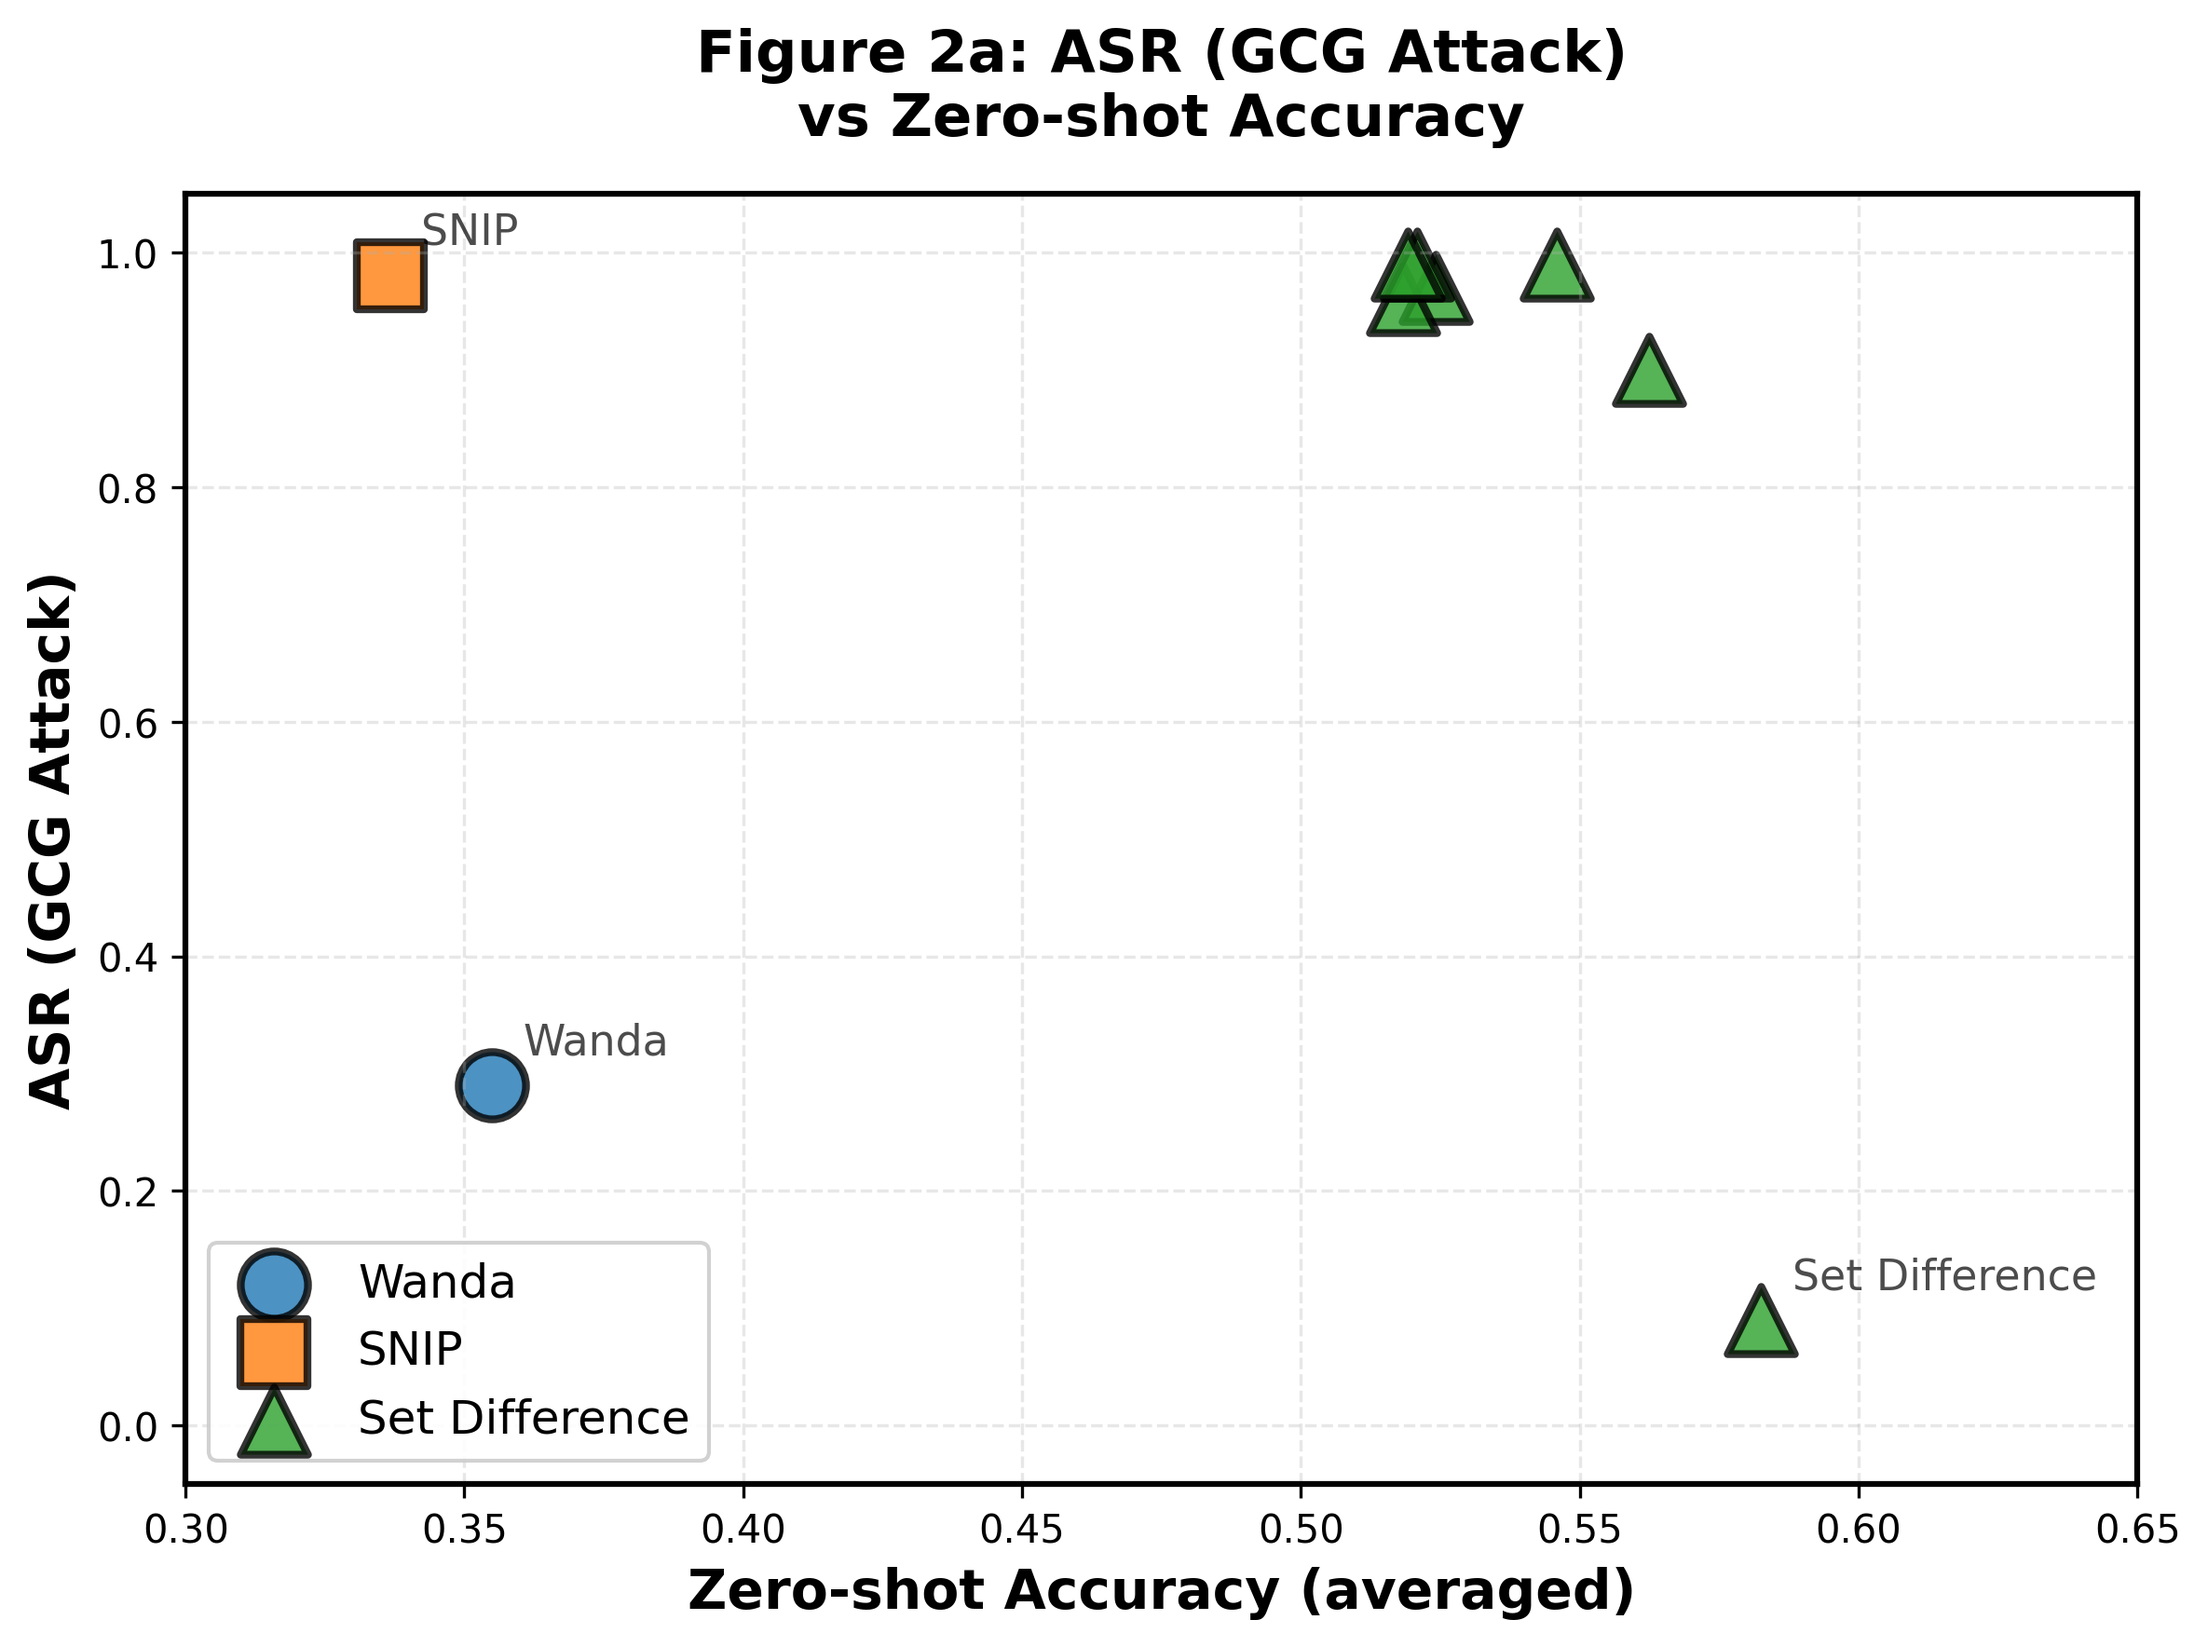
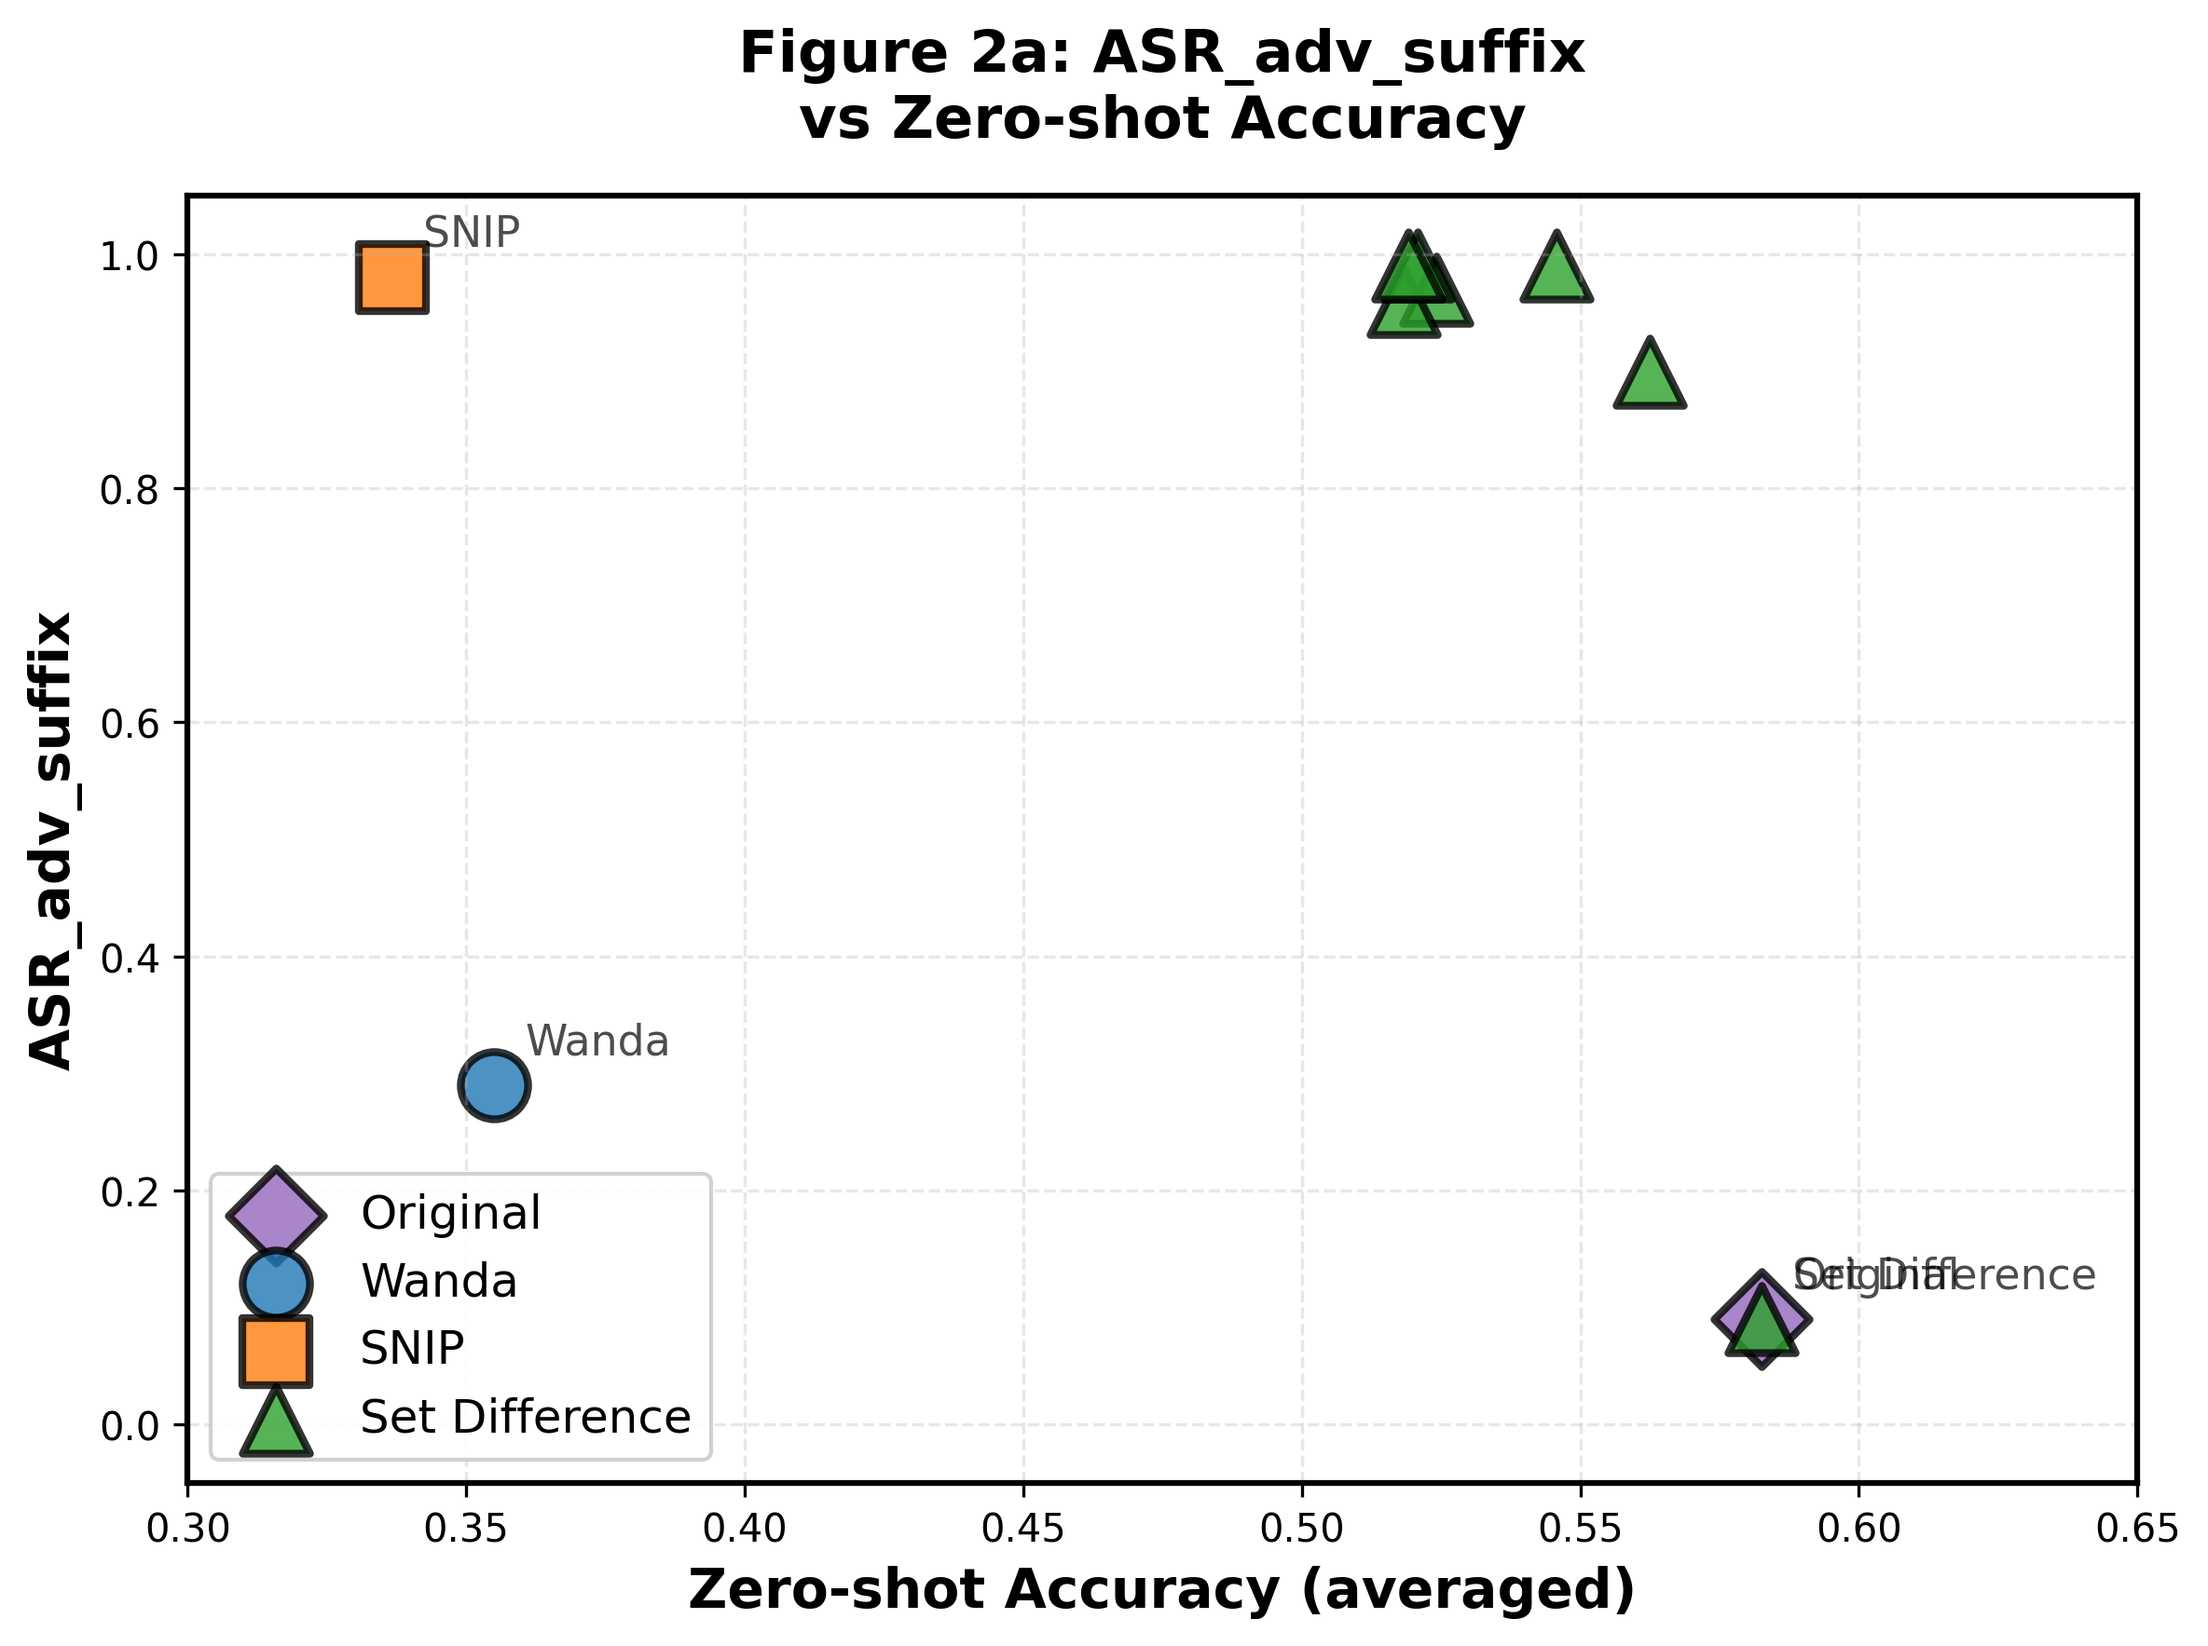
updated figures

diff --git a/create_plots.py b/create_plots.py
@@ -1,9 +1,9 @@
 #!/usr/bin/env python3
 """
 Create 3 plots for Figure 2a:
-1. no_inst_ASR_multiple_nosys vs averaged zero-shot accuracy
-2. ASR_gcg vs averaged zero-shot accuracy
-3. inst_ASR_multiple_nosys vs averaged zero-shot accuracy
+1. ASR_vanilla (inst_ASR_basic) vs averaged zero-shot accuracy
+2. ASR_adv_suffix (ASR_gcg) vs averaged zero-shot accuracy
+3. ASR_adv_decoding (no_inst_ASR_multiple_nosys) vs averaged zero-shot accuracy
 """
 
 import matplotlib.pyplot as plt
@@ -11,27 +11,53 @@ import numpy as np
 import os
 import glob
 
-# Data extracted from results/fig2a/
-data = {
-    'Wanda': {
-        'zero_shot': 0.3550,
-        'inst_ASR_multiple_nosys': 0.6720,
-        'ASR_gcg': 0.2900,
-        'no_inst_ASR_multiple_nosys': 0.9020,
-    },
-    'SNIP': {
-        'zero_shot': 0.3367,
-        'inst_ASR_multiple_nosys': 0.9220,
-        'ASR_gcg': 0.9800,
-        'no_inst_ASR_multiple_nosys': 0.9640,
-    },
-    'Set Difference': {
-        'zero_shot': 0.5825,
-        'inst_ASR_multiple_nosys': 0.0000,
-        'ASR_gcg': 0.0900,
-        'no_inst_ASR_multiple_nosys': 0.2740,
-    },
+# Paths to log files
+LOG_PATHS = {
+    'Original': 'results/fig2a/original/log_original.txt',
+    'Wanda': 'results/fig2a/wanda_0.01/log_wanda.txt',
+    'SNIP': 'results/fig2a/snip/log_wandg.txt',
+    'Set Difference': 'results/fig2a/snip_setdiff/log_wandg_set_difference.txt',
 }
+
+# Read data from log files
+def read_log_file(filepath, method_name):
+    """Read metrics from a log file and return a dictionary of metric: score"""
+    metrics = {}
+
+    if not os.path.exists(filepath):
+        print(f"Warning: {filepath} not found")
+        return metrics
+
+    with open(filepath, 'r') as f:
+        lines = f.readlines()
+        for line in lines[1:]:  # Skip header
+            parts = line.strip().split('\t')
+            if len(parts) >= 4:
+                # Handle both formats: with and without p,q columns
+                if 'set_difference' in filepath:
+                    # Format: method, actual_sparsity, p, q, metric, score
+                    if len(parts) >= 6:
+                        metric_name = parts[4]
+                        score = float(parts[5])
+                        metrics[metric_name] = score
+                else:
+                    # Format: method, actual_sparsity, metric, score
+                    metric_name = parts[2]
+                    score = float(parts[3])
+                    metrics[metric_name] = score
+
+    return metrics
+
+# Load data from log files
+data = {}
+for method, filepath in LOG_PATHS.items():
+    metrics = read_log_file(filepath, method)
+    data[method] = {
+        'zero_shot': metrics.get('averaged', 0.0),
+        'inst_ASR_basic': metrics.get('inst_ASR_basic', 0.0),
+        'ASR_gcg': metrics.get('ASR_gcg', 0.0),
+        'no_inst_ASR_multiple_nosys': metrics.get('no_inst_ASR_multiple_nosys', 0.0),
+    }
 
 # Read set difference data from all sparsity folders
 def read_setdiff_data():
@@ -61,7 +87,7 @@ def read_setdiff_data():
         if 'averaged' in metrics:
             data_point = {
                 'zero_shot': metrics.get('averaged', None),
-                'inst_ASR_multiple_nosys': metrics.get('inst_ASR_multiple_nosys', None),
+                'inst_ASR_basic': metrics.get('inst_ASR_basic', None),
                 'ASR_gcg': metrics.get('ASR_gcg', None),
                 'no_inst_ASR_multiple_nosys': metrics.get('no_inst_ASR_multiple_nosys', None),
                 'sparsity': os.path.basename(sparsity_dir)
@@ -74,6 +100,7 @@ setdiff_data = read_setdiff_data()
 
 # Colors for each method
 colors = {
+    'Original': '#9467bd',  # purple
     'Wanda': '#1f77b4',  # blue
     'SNIP': '#ff7f0e',   # orange
     'Set Difference': '#2ca02c',  # green
@@ -81,6 +108,7 @@ colors = {
 
 # Marker styles
 markers = {
+    'Original': 'D',  # diamond
     'Wanda': 'o',
     'SNIP': 's',
     'Set Difference': '^',
@@ -90,16 +118,16 @@ markers = {
 fig, axes = plt.subplots(1, 3, figsize=(18, 5))
 
 asr_metrics = [
-    ('no_inst_ASR_multiple_nosys', 'ASR (no_inst, multiple samples, no sys)'),
-    ('ASR_gcg', 'ASR (GCG Attack)'),
-    ('inst_ASR_multiple_nosys', 'ASR (inst, multiple samples, no sys)'),
+    ('inst_ASR_basic', 'ASR_vanilla'),
+    ('ASR_gcg', 'ASR_adv_suffix'),
+    ('no_inst_ASR_multiple_nosys', 'ASR_adv_decoding'),
 ]
 
 for idx, (metric_key, metric_label) in enumerate(asr_metrics):
     ax = axes[idx]
 
     # Plot each method
-    for method in ['Wanda', 'SNIP', 'Set Difference']:
+    for method in ['Original', 'Wanda', 'SNIP', 'Set Difference']:
         x = data[method]['zero_shot']
         y = data[method][metric_key]
 
@@ -159,7 +187,7 @@ for idx, (metric_key, metric_label) in enumerate(asr_metrics):
     fig, ax = plt.subplots(figsize=(8, 6))
 
     # Plot each method
-    for method in ['Wanda', 'SNIP', 'Set Difference']:
+    for method in ['Original', 'Wanda', 'SNIP', 'Set Difference']:
         x = data[method]['zero_shot']
         y = data[method][metric_key]
 
@@ -219,19 +247,19 @@ for idx, (metric_key, metric_label) in enumerate(asr_metrics):
 print("\n" + "="*80)
 print("DATA SUMMARY")
 print("="*80)
-print(f"{'Method':<20} {'Zero-shot':>12} {'inst_ASR_mult':>15} {'ASR_gcg':>12} {'no_inst_ASR':>15}")
+print(f"{'Method':<20} {'Zero-shot':>12} {'ASR_vanilla':>15} {'ASR_adv_suffix':>15} {'ASR_adv_dec':>15}")
 print("-"*80)
-for method in ['Wanda', 'SNIP', 'Set Difference']:
+for method in ['Original', 'Wanda', 'SNIP', 'Set Difference']:
     print(f"{method:<20} {data[method]['zero_shot']:>12.4f} "
-          f"{data[method]['inst_ASR_multiple_nosys']:>15.4f} "
-          f"{data[method]['ASR_gcg']:>12.4f} "
+          f"{data[method]['inst_ASR_basic']:>15.4f} "
+          f"{data[method]['ASR_gcg']:>15.4f} "
           f"{data[method]['no_inst_ASR_multiple_nosys']:>15.4f}")
 print("-"*80)
 print("\nSet Difference (all sparsity levels):")
 print("-"*80)
 for point in setdiff_data:
     print(f"{point['sparsity']:<20} {point['zero_shot']:>12.4f} "
-          f"{point['inst_ASR_multiple_nosys']:>15.4f} "
-          f"{point['ASR_gcg']:>12.4f} "
+          f"{point['inst_ASR_basic']:>15.4f} "
+          f"{point['ASR_gcg']:>15.4f} "
           f"{point['no_inst_ASR_multiple_nosys']:>15.4f}")
 print("="*80)
